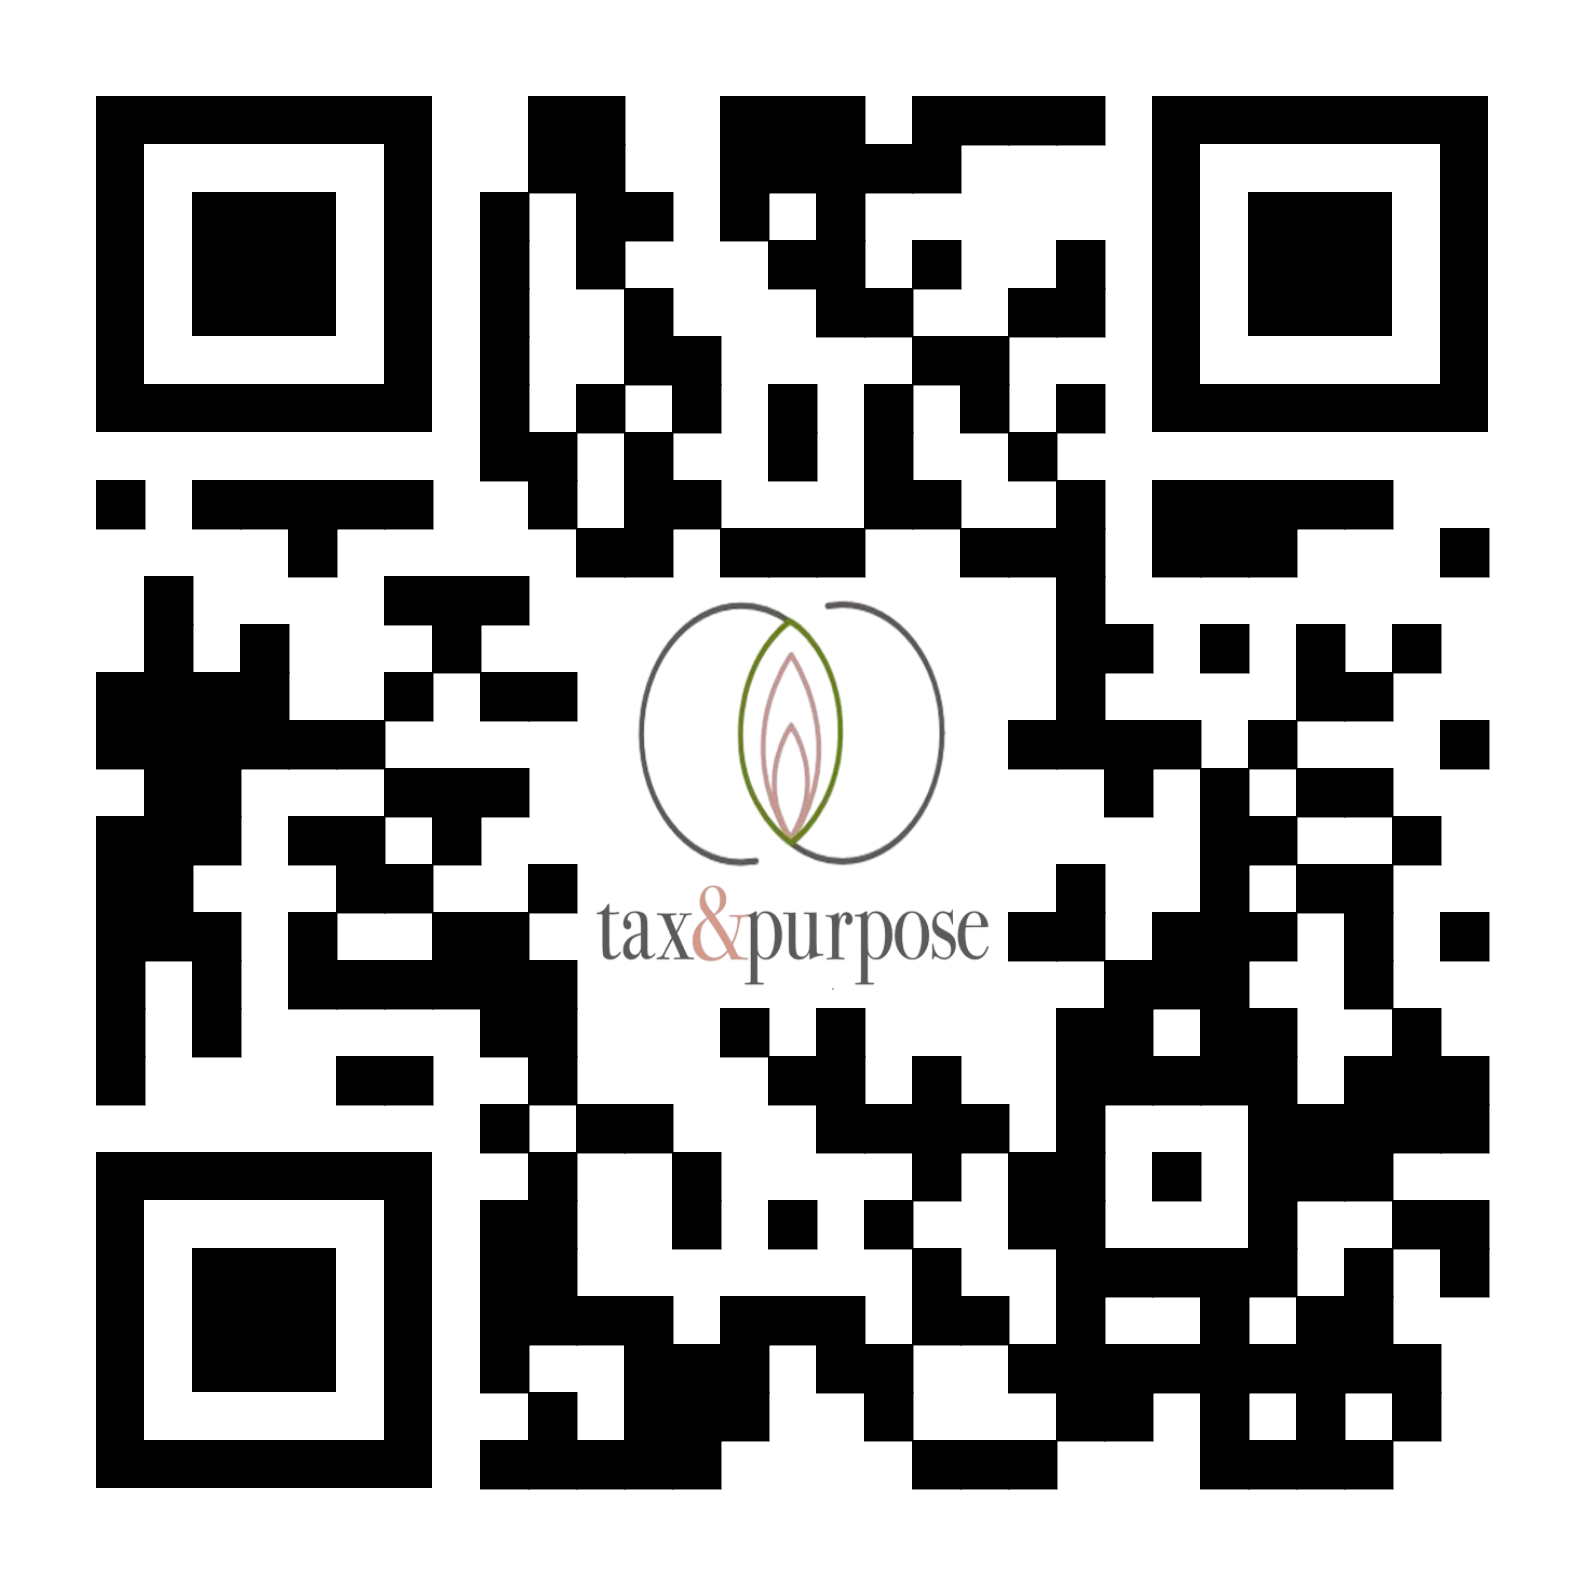
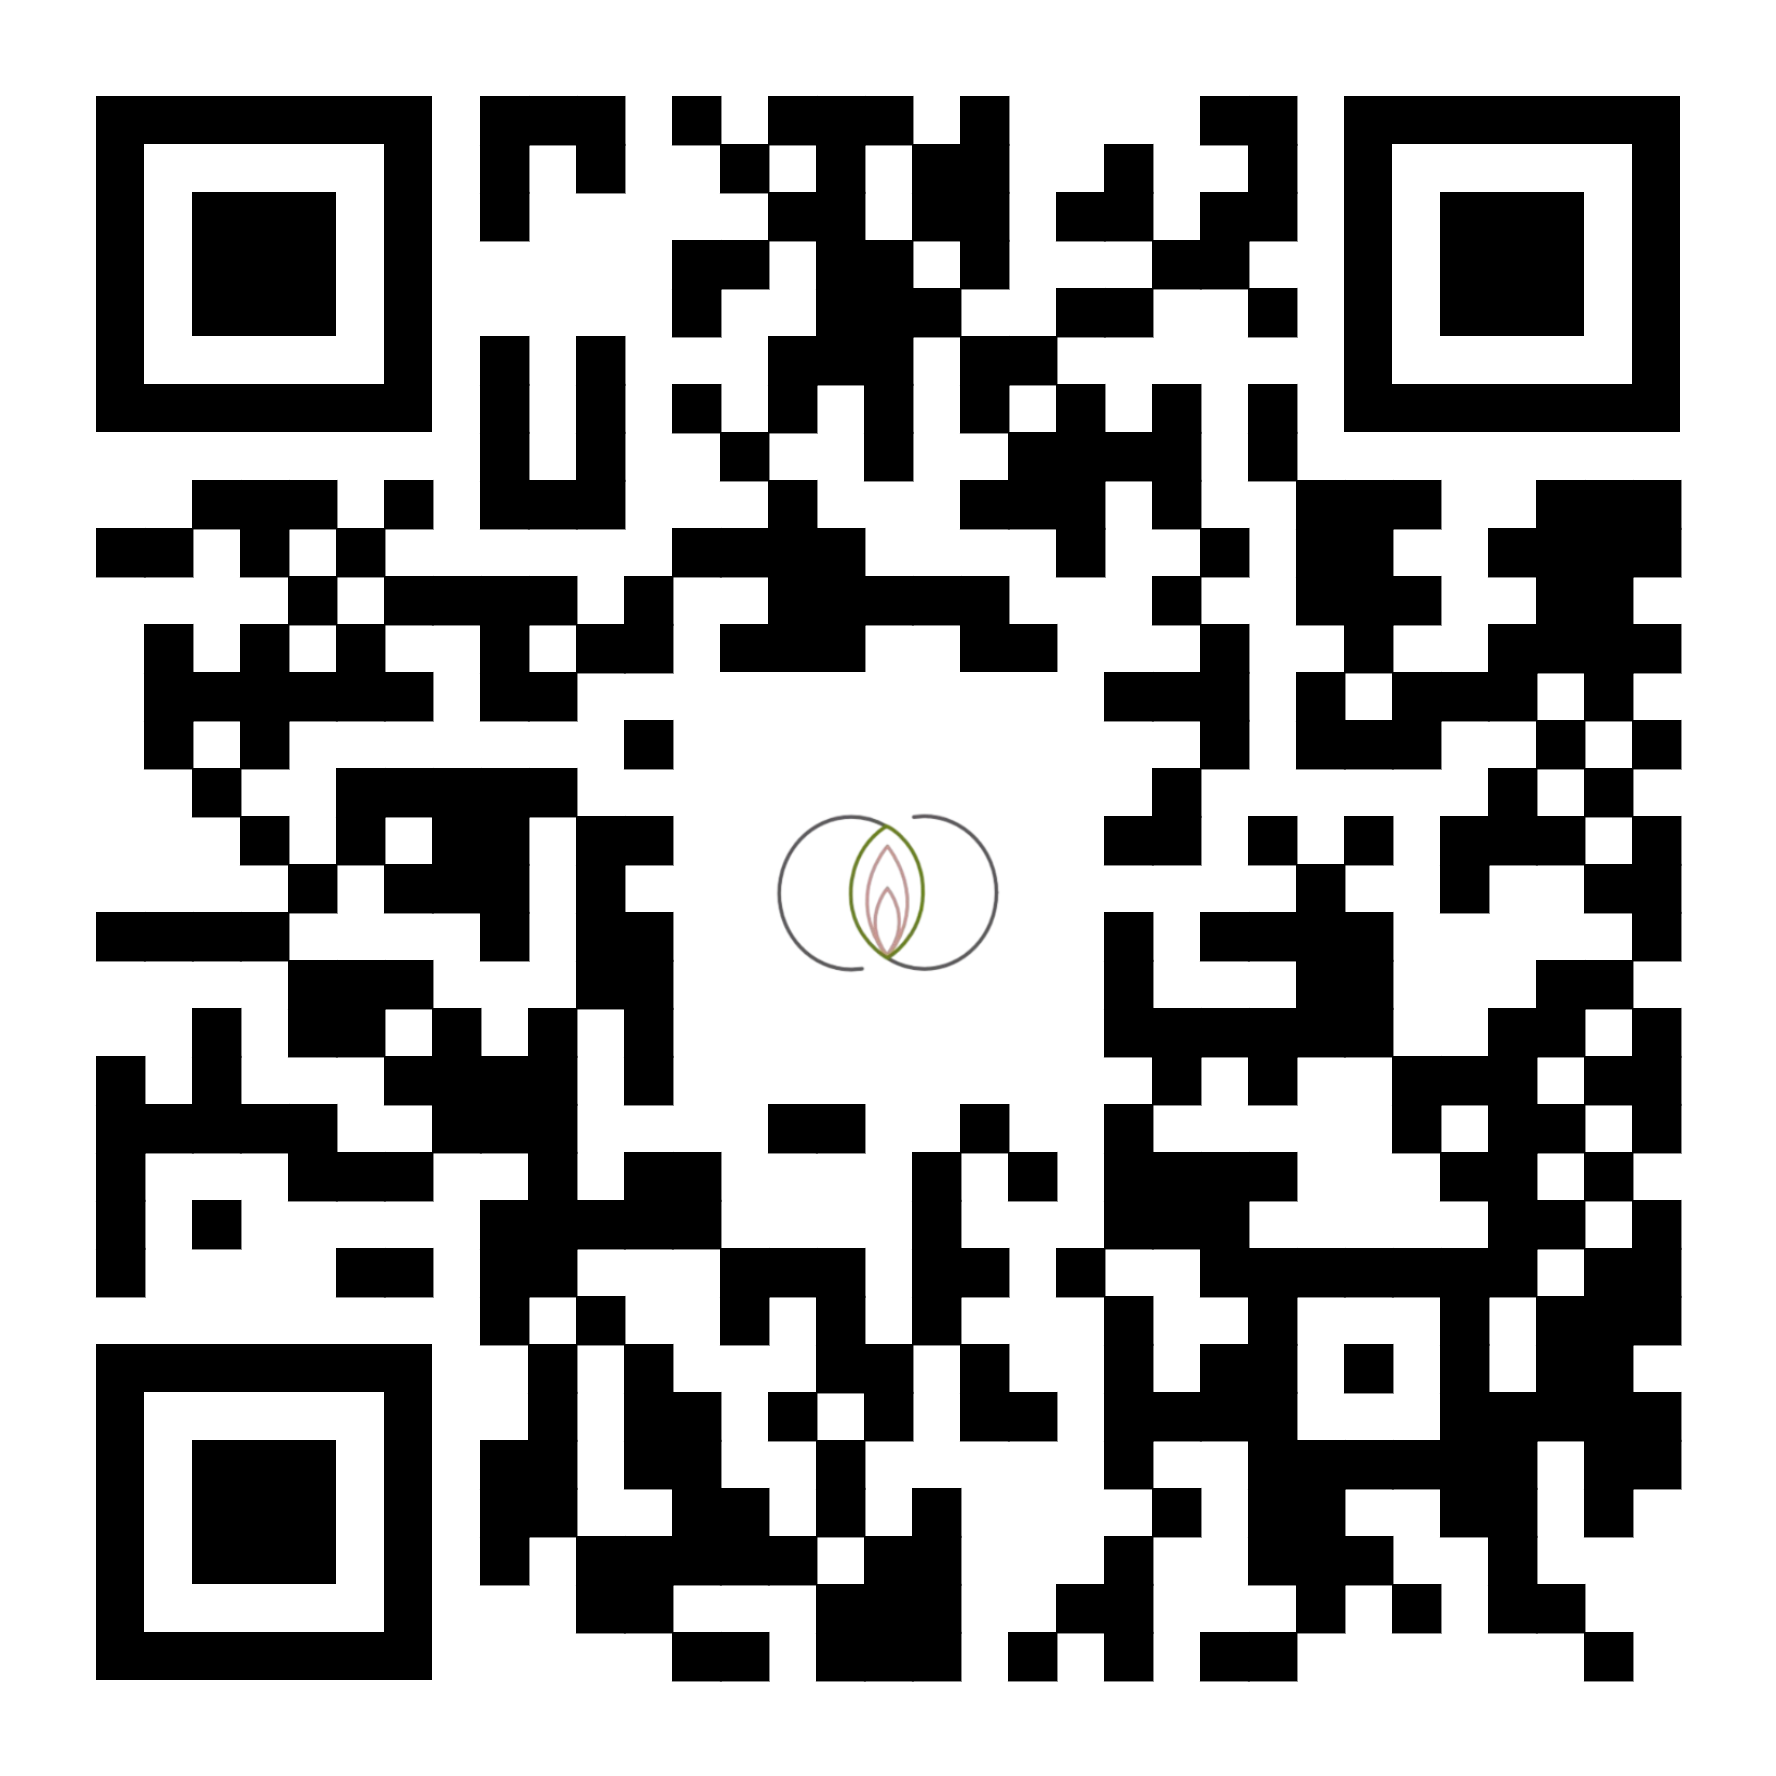
Update asset handling and routing in the application
- Modified the routing for blog posts to use a slug parameter instead of an ID for improved SEO and user-friendly URLs.
- Added functionality to download the original version of phone background assets if available, enhancing user experience.
- Introduced a new email signature asset in the branding kits for better branding options.
- Updated binary assets for business cards and QR codes to ensure the latest versions are in use.
- Removed the deprecated phone background image to streamline asset management.

diff --git a/public/tax-purpose/email_signature.html b/public/tax-purpose/email_signature.html
@@ -1,0 +1,1 @@
+<!DOCTYPE HTML PUBLIC "-//W3C//DTD HTML 4.0 Transitional//EN"><HTML><HEAD><TITLE>Email Signature</TITLE><META content="text/html; charset=utf-8" http-equiv="Content-Type"></HEAD><BODY style="font-size: 10pt; font-family: Arial, sans-serif;"><table style="width: 420px; font-size: 10pt; font-family: Arial, sans-serif; background: transparent !important;" cellpadding="0" cellspacing="0" border="0"><tbody><tr><td colspan="2" style="font-size:15px; line-height:15px; height:15px;">&nbsp;</td></tr><tr><td colspan="2" style="font-size:15px; line-height:15px; height:15px; border-top: 1px solid #dcafa5;">&nbsp;</td></tr><tr><td style="font-size: 12pt; font-family: Arial, sans-serif; width:200px; padding-right: 10px; vertical-align: bottom;  padding-bottom: 10px;" valign="bottom"><p style="margin-bottom:10px; padding-bottom: 0px; line-height:1.0"><strong><span style="font-size: 12pt; font-family: Arial, sans-serif; color:#8f9a7a; line-height: 18pt;">Dr. Leila Momen</span></strong></p><span><a href="https://www.taxandpurpose.com/" target="_blank"><img border="0" width="132" style="width:132px; height:auto; border:0;" src="https://www.taxandpurpose.com/static/media/leilalogo.fe24e77f64ecc599f14f.png"></a></span></td><td valign="top" style="vertical-align: top; padding-left: 30px; padding-bottom: 6px; "><span><span style="color: #000000;"><strong>E:</strong></span><a href="mailto:contact@taxandpurpose.com" style="text-decoration: none; font-size: 9pt; font-family: Arial, sans-serif; color:#000000;"><span style="text-decoration: none; font-size: 9pt; font-family: Arial, sans-serif; color:#000000;">contact@taxandpurpose.com</span></a><br></span><span><span style="color: #000000;"><strong>P:</strong></span><span style="font-size: 9pt; font-family: Arial, sans-serif; color:#000000;"> +49 1575 5842279<br></span></span><span style="color:#000000;"><strong>A:</strong></span><span style="font-family: Arial, sans-serif; font-size:9pt; color:#000000;">Tax &amp; Purpose<span>,</span></span><span><span style="font-size: 9pt; font-family: Arial, sans-serif; color: #000000;">Jülicher Straße 72a<span>, </span></span><span style="font-size: 9pt; font-family: Arial, sans-serif; color: #000000;">52070 Aachen</span></span> </td></tr><tr><td colspan="2" style="padding-bottom:15px;"><a href="https://www.taxandpurpose.com/" target="_blank" rel="noopener"><img border="0" width="420" style="width:420px; height:auto; border:0;" src="https://www.rapid-works.io/tax-purpose/social.png"></a></td></tr><tr><td style="vertical-align: top;border-top: 1px solid #dcafa5; padding-top: 15px;" valign="top"><a href="http://www.taxandpurpose.com" target="_blank" rel="noopener" style="font-size: 9pt; font-family: Arial, sans-serif; text-decoration:none; color: #8f9a7a; font-weight: bold;"><span style="font-size: 9pt; font-family: Arial, sans-serif; text-decoration:none; color: #8f9a7a; font-weight: bold;">www.taxandpurpose.com</span></a></td><td valign="top" align="right" style="padding-left: 30px;border-top: 1px solid #dcafa5; padding-top: 15px; text-align:right"><table cellpadding="0" cellspacing="0" border="0" style="float: right; background: transparent !important;"><tbody><tr><td style="padding-left:3px;" width="30"><a href="https://www.linkedin.com/in/leila-dr-momen-0bb4a930/" target="_blank"><img border="0" width="26" height="22" style="border:0; height:22px; width:26px;" src="https://www.mail-signatures.com/signature-generator/img/templates/organic-coffee/ln.png"></a></td></tr></tbody></table></td></tr></tbody></table></BODY></HTML>

diff --git a/src/components/AssetPreview.jsx b/src/components/AssetPreview.jsx
@@ -26,6 +26,45 @@ const AssetPreview = ({ asset, paid = true }) => {
     }
   };
 
+  const getPhoneBgDownloadUrl = () => {
+    if (asset.type !== "phone-bg") return asset.downloadUrl;
+    
+    // For phone-bg assets, try to get the -orig version
+    const originalUrl = asset.downloadUrl.replace("phone-bg.png", "phone-bg-orig.png");
+    return originalUrl;
+  };
+
+  const handlePhoneBgDownload = async () => {
+    if (!paid || asset.type !== "phone-bg") return;
+    
+    const originalUrl = getPhoneBgDownloadUrl();
+    
+    // Try to download the -orig version first
+    try {
+      const response = await fetch(originalUrl, { method: 'HEAD' });
+      if (response.ok) {
+        // Original version exists, download it
+        const link = document.createElement("a");
+        link.href = originalUrl;
+        link.download = asset.name.toLowerCase().replace(/\s+/g, "-") + "-orig.png";
+        document.body.appendChild(link);
+        link.click();
+        document.body.removeChild(link);
+        return;
+      }
+    } catch (error) {
+      console.log("Original version not found, falling back to regular version");
+    }
+    
+    // Fallback to regular version
+    const link = document.createElement("a");
+    link.href = asset.downloadUrl;
+    link.download = asset.name.toLowerCase().replace(/\s+/g, "-") + ".png";
+    document.body.appendChild(link);
+    link.click();
+    document.body.removeChild(link);
+  };
+
   const renderDownloadButton = (isModal = false) => {
     if (!paid) return null;
     if (asset.type === "website") {
@@ -51,6 +90,14 @@ const AssetPreview = ({ asset, paid = true }) => {
       );
     }
 
+    if (asset.type === "phone-bg") {
+      return (
+        <Button onClick={handlePhoneBgDownload} className="flex-1 min-w-[110px] flex items-center justify-center gap-2 whitespace-nowrap">
+          <Download className="h-5 w-5" /> Download
+        </Button>
+      );
+    }
+
     return (
       <Button asChild className="flex-1 min-w-[110px] flex items-center justify-center gap-2 whitespace-nowrap">
         <a href={asset.downloadUrl} download className="flex items-center gap-2 justify-center whitespace-nowrap">
@@ -61,7 +108,18 @@ const AssetPreview = ({ asset, paid = true }) => {
   };
 
   // Both buttons for card/modal
-  const previewButton = (
+  const previewButton = asset.type === "website" ? (
+    <Button asChild variant="outline" className="flex-1 min-w-[110px]">
+      <a
+        href={asset.downloadUrl}
+        target="_blank"
+        rel="noopener noreferrer"
+        className="flex items-center gap-2 justify-center whitespace-nowrap"
+      >
+        <Eye className="h-4 w-4" /> Website
+      </a>
+    </Button>
+  ) : (
     <Button 
       variant="outline"
       onClick={() => setIsPreviewOpen(true)}

diff --git a/src/data/brandingKits.js b/src/data/brandingKits.js
@@ -9,6 +9,7 @@ export const brandingKits = [
       { id: "tax-purpose-logo-icon", name: "Logo (Icon)", type: "logo-icon", preview: "/tax-purpose/logo-2.png", downloadUrl: "/tax-purpose/logo-2.png" },
       { id: "tax-purpose-website", name: "Website", type: "website", preview: "/tax-purpose/taxpurpose-website.png", downloadUrl: "https://www.taxandpurpose.com/" },
       { id: "tax-purpose-social-banner", name: "Social Media Banner", type: "social-media-banner", preview: "/tax-purpose/social.png", downloadUrl: "/tax-purpose/social.png" },
+      { id: "tax-purpose-email-signature", name: "Email Signature", type: "email-signature", preview: "/tax-purpose/email-signature.png", downloadUrl: "/tax-purpose/email_signature.html" },
       { id: "tax-purpose-banner", name: "RollUp", type: "banner", preview: "/tax-purpose/banner.png", downloadUrl: "/tax-purpose/banner.png" },
       { id: "tax-purpose-card", name: "Business Card", type: "business-card", preview: "/tax-purpose/business-card-front.png", downloadUrl: "/tax-purpose/business-card-front.png", backDownloadUrl: "/tax-purpose/business-card.jpg" },
       { id: "tax-purpose-qrcode", name: "QR Code", type: "qrcode", preview: "/tax-purpose/taxpurpose-qrcode.png", downloadUrl: "/tax-purpose/taxpurpose-qrcode.png" },

diff --git a/src/App.js b/src/App.js
@@ -1327,7 +1327,7 @@ function App() {
             <Route path="/bundle" element={<BundlePage />} />
             <Route path="/partners" element={<PartnersPage />} />
             <Route path="/blogs" element={<BlogListPage />} />
-            <Route path="/blog/:id" element={<BlogPostPage />} />
+            <Route path="/blogs/:slug" element={<BlogPostPage />} />
             <Route path="/agb" element={<AGBPage />} />
             <Route path="/datenschutz" element={<PrivacyPage />} />
             <Route path="/impressum" element={<ImpressumPage />} />
